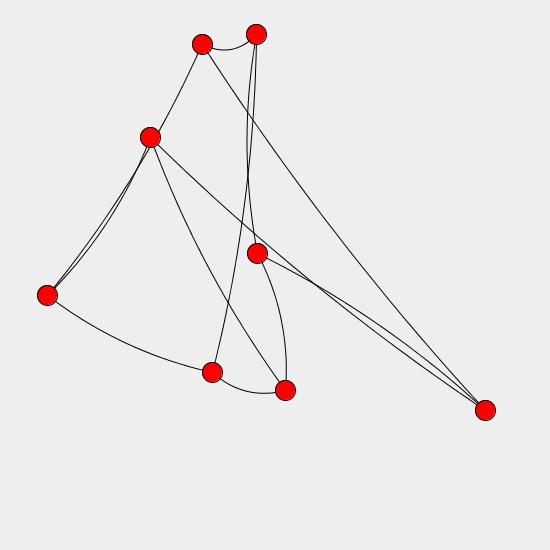
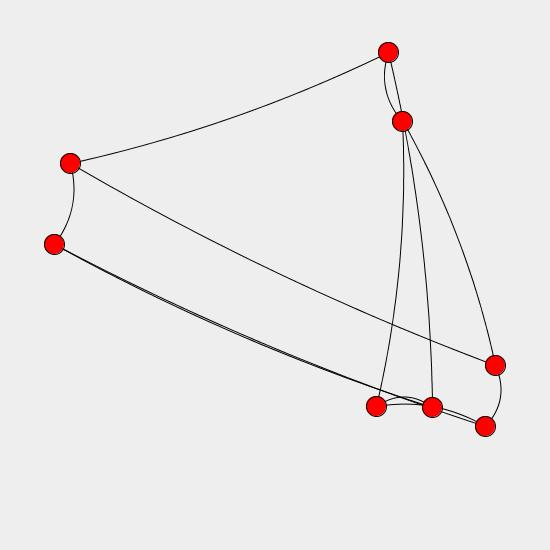
print statements for debugging

diff --git a/src/sp2starter.java b/src/sp2starter.java
@@ -60,9 +60,12 @@ public class sp2starter {
 				displacements.get(b).sub(displacementTemp);
 
 			}
+			System.out.println("");
+			System.out.println("iteration:" + t);
 
 			double rForce;
 			for (String u : g.getVertices()) {
+				System.out.println(u + " attract:" + displacements.get(u));
 				for (String v : g.getVertices()) {
 					if (u != v) {
 						// find distance between vertices
@@ -73,14 +76,13 @@ public class sp2starter {
 						displacements.get(u).sum(displacementTemp);
 
 					}
-
 				}
+				System.out.println(u + " repulse:" + displacements.get(u));
 
 			}
 			//add displacements to positions
 			for (String v : g.getVertices()) {
 				positions.get(v).sum(displacements.get(v));
-				//System.out.println(positions.get(v));
 			}
 
 		}
@@ -107,10 +109,8 @@ public class sp2starter {
 		// create and return static layout with calculated positions
 		StaticLayout<String, String> l = new StaticLayout<String, String>(g);
 		for (String u : g.getVertices()) {
-			System.out.println(positions.get(u));
 			newLoc = normalize(positions.get(u));
 			l.setLocation(u, newLoc.toPoint());
-			//System.out.println(newLoc);
 		}
 		System.out.println("FINISHED");
 		return l;

diff --git a/src/sp2.java b/src/sp2.java
@@ -42,7 +42,7 @@ public class sp2 {
 		// Compute a force directed layout
 		Dimension dim = new Dimension(500, 500);
 		sp2starter tools = new sp2starter();
-		StaticLayout<String, String> l = tools.fRAlgorithm(g, 1, dim, 6);
+		StaticLayout<String, String> l = tools.fRAlgorithm(g, 1000, dim, 40);
 		dim.setSize(dim.getWidth() * 1.1, dim.getHeight() * 1.1);
 
 		// create image
